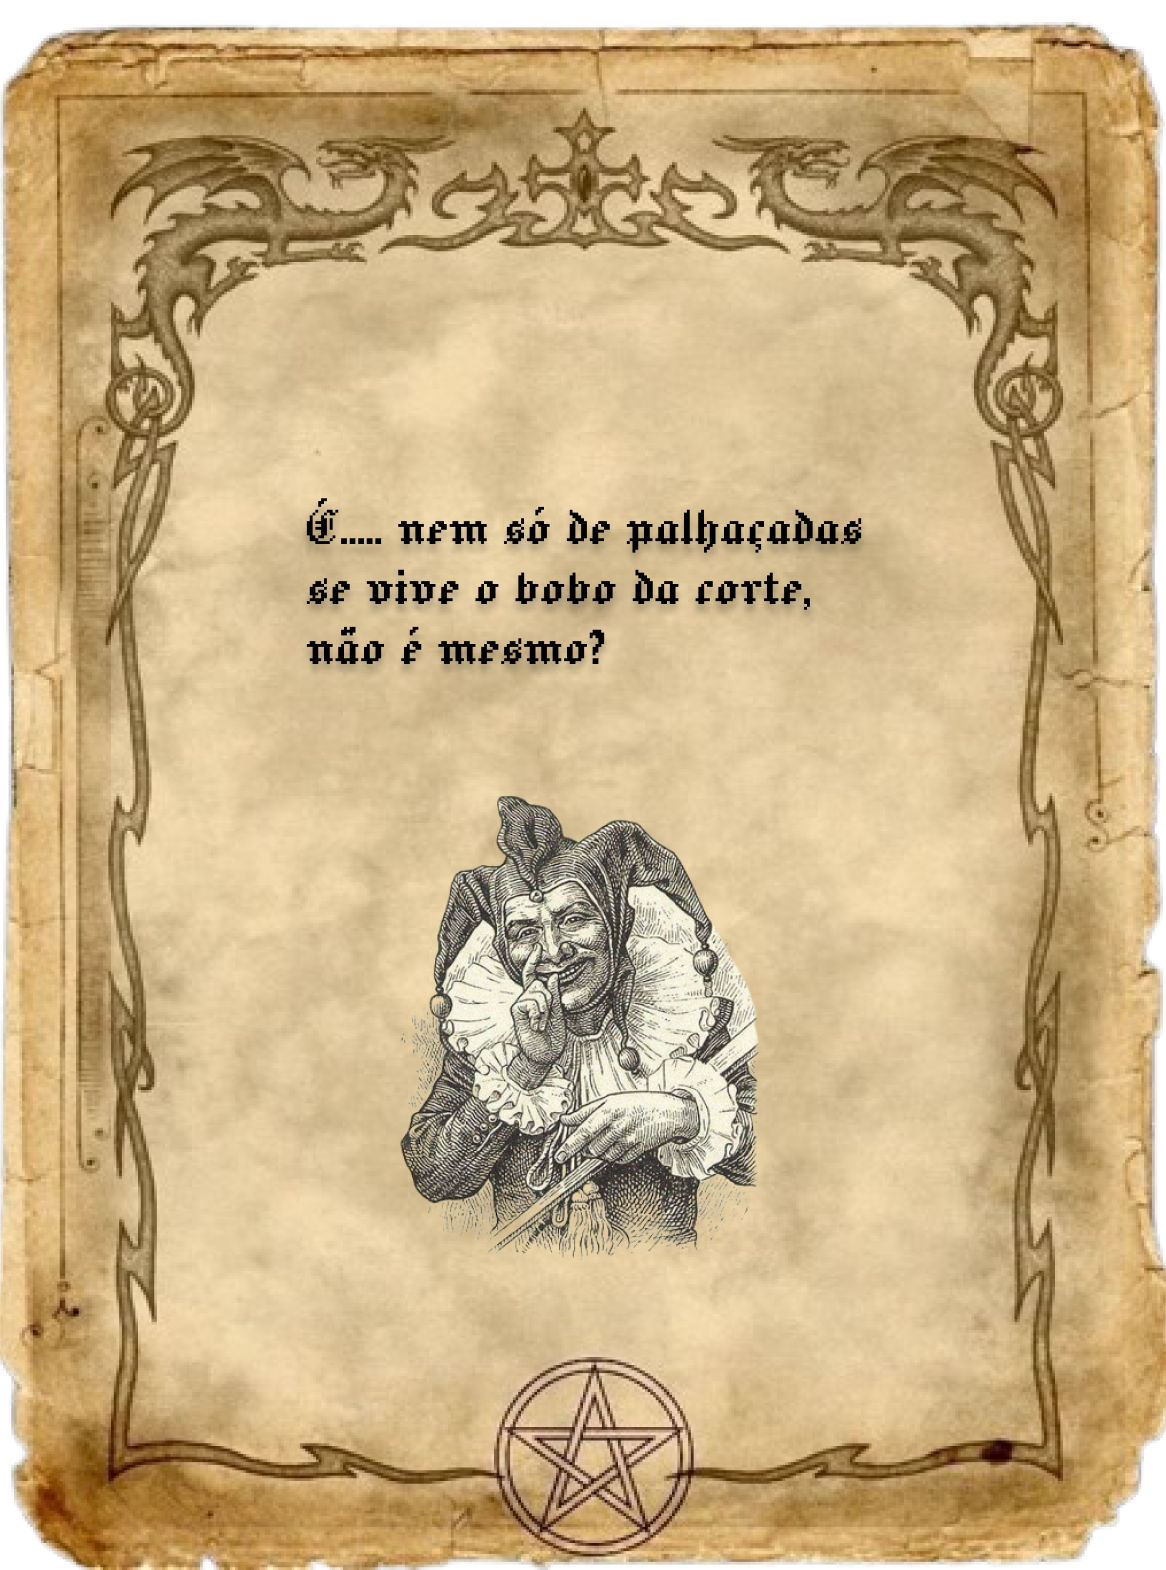
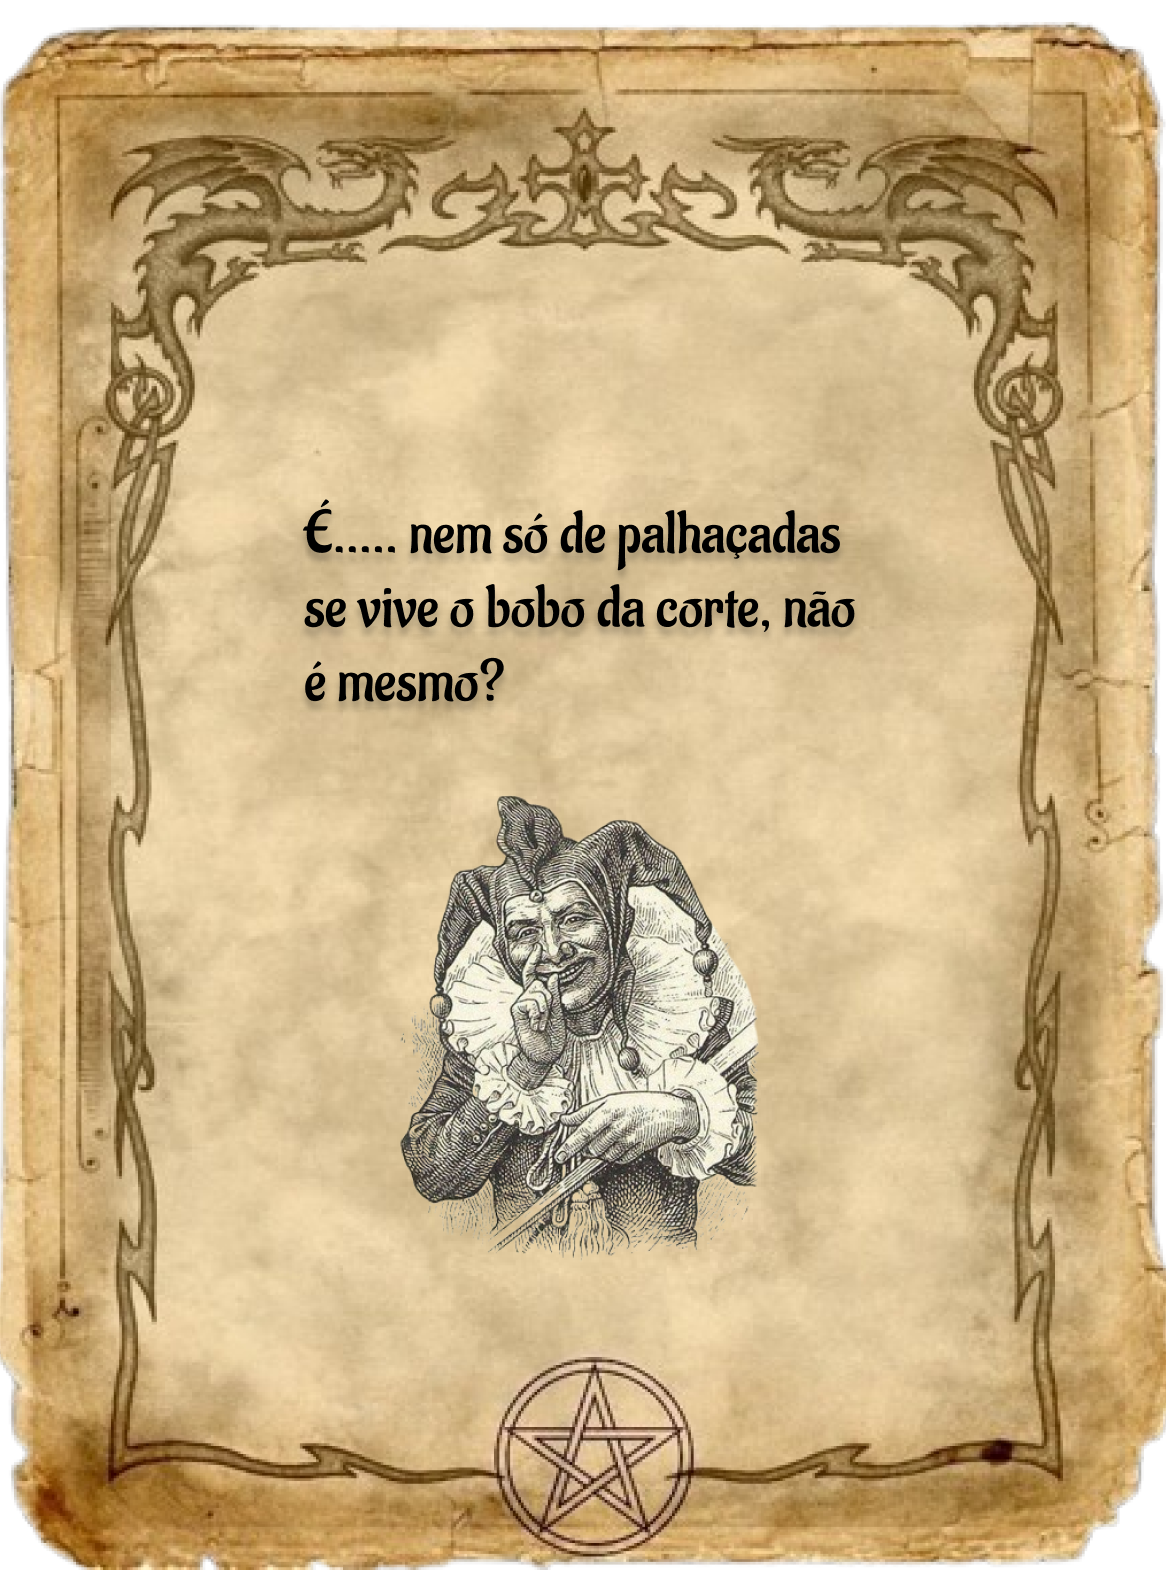
2.0.0

Changed region(s): [[0.247, 0.3121, 0.741, 0.4682]]

diff --git a/src/pages/play/index.tsx b/src/pages/play/index.tsx
@@ -1,5 +1,5 @@
 import { useEffect, useState } from "react";
-import { AlertContainer, Background, CardBack, CardContainer, CardFront, Container, Image, P, Pergaminho, PrincipalContainer, QuestionButton } from "./style";
+import { AlertContainer, Background, CardBack, CardContainer, CardFront, Container, Image, P, Pergaminho, PrincipalContainer, QuestionButton, SkipButton } from "./style";
 
 import backcard from '../../assets/backcart.png'
 import pergaminho from '../../assets/pergaminho.png'
@@ -34,38 +34,42 @@ export function Play() {
     const [currentIndex, setCurrentIndex] = useState(0)
     const [isFinished, setIsFinished] = useState(false)
 
+    function handleSkip() {
+        setCurrentIndex(5)
+    }
+
     useEffect(() => {
         if (currentIndex >= Tutorial.length) {
             setIsFinished(true)
             return
         }
         if (currentIndex == 1) {
-            const interval = setInterval(() =>  {
+            const interval = setInterval(() => {
                 setCurrentIndex((prevIndex) => prevIndex + 1)
             }, 6500)
             return () => clearInterval(interval)
         }
         if (currentIndex == 2) {
-            const interval = setInterval(() =>  {
+            const interval = setInterval(() => {
                 setCurrentIndex((prevIndex) => prevIndex + 1)
-            }, 11000)
+            }, 10000)
             return () => clearInterval(interval)
         }
         if (currentIndex == 3) {
-            const interval = setInterval(() =>  {
+            const interval = setInterval(() => {
                 setCurrentIndex((prevIndex) => prevIndex + 1)
             }, 7000)
             return () => clearInterval(interval)
         }
         if (currentIndex == 4) {
-            const interval = setInterval(() =>  {
+            const interval = setInterval(() => {
                 setCurrentIndex((prevIndex) => prevIndex + 1)
-            }, 10000)
+            }, 9000)
             return () => clearInterval(interval)
         }
-        const interval = setInterval(() =>  {
+        const interval = setInterval(() => {
             setCurrentIndex((prevIndex) => prevIndex + 1)
-        }, 4000)
+        }, 6000)
         return () => clearInterval(interval)
     }, [currentIndex])
 
@@ -116,7 +120,7 @@ export function Play() {
 
     function handleAnswer(selectedAnswer: number) {
         const isCorrect = selectedAnswer === questions[currentQuestion].resposta
-        
+
         if (isCorrect) {
             setResultImage(correctImg)
             setCurrentQuestion((prevQuestion) => prevQuestion + 1);
@@ -124,75 +128,75 @@ export function Play() {
             setResultImage(wrongImg)
             setCurrentQuestion(0)
         }
-        
+
 
         setAnswer(selectedAnswer);
         if (currentQuestion < questions.length - 1) {
             setTimeout(() => {
-            setResultImage(null); // Limpa a imagem ao avançar para a próxima pergunta
-            }, 1500); // Espera 1 segundo antes de mudar para a próxima pergunta
-            
+                setResultImage(null); // Limpa a imagem ao avançar para a próxima pergunta
+            }, 2500); // Espera 1 segundo antes de mudar para a próxima pergunta
+
         } else {
             setTimeout(() => {
                 setResultImage(null); // Limpa a imagem de resultado antes de mostrar o alerta
                 alert('Você completou o quiz!');
-            }, 1500);
+            }, 2500);
         }
 
-        
+
 
     }
 
     if (isFinished) {
         return (
             <Container>
-                <Background src={background}/>
+                <Background src={background} />
                 <QuestionButton onClick={handlePergaminho}></QuestionButton>
                 {onClicked && (
                     <div>
-                        <Pergaminho src={pergaminho}/>
+                        <Pergaminho src={pergaminho} />
                         <P>
                             <p>{questions[currentQuestion].question}</p>
                         </P>
                     </div>
                 )}
                 <section>
-                    <CardContainer 
-                    flipped={flipped}
-                    onMouseEnter={() => setFlipped(false)} 
-                    onMouseLeave={() => setFlipped(true)}
-                    onClick={() => handleAnswer(0)}
+                    <CardContainer
+                        flipped={flipped}
+                        onMouseEnter={() => setFlipped(false)}
+                        onMouseLeave={() => setFlipped(true)}
+                        onClick={() => handleAnswer(0)}
                     >
-                        <CardFront frontcard={carta1}/>
-                        <CardBack backcard={backcard}/>
+                        <CardFront frontcard={carta1} />
+                        <CardBack backcard={backcard} />
                     </CardContainer>
-                    <CardContainer 
-                    flipped={flipped2}
-                    onMouseEnter={() => setFlipped2(false)} 
-                    onMouseLeave={() => setFlipped2(true)}
-                    onClick={() => handleAnswer(1)}
+                    <CardContainer
+                        flipped={flipped2}
+                        onMouseEnter={() => setFlipped2(false)}
+                        onMouseLeave={() => setFlipped2(true)}
+                        onClick={() => handleAnswer(1)}
                     >
-                        <CardFront frontcard={carta2}/>
-                        <CardBack backcard={backcard}/>
+                        <CardFront frontcard={carta2} />
+                        <CardBack backcard={backcard} />
                     </CardContainer>
-                    <CardContainer 
-                    flipped={flipped3}
-                    onMouseEnter={() => setFlipped3(false)} 
-                    onMouseLeave={() => setFlipped3(true)}
-                    onClick={() => handleAnswer(2)}
+                    <CardContainer
+                        flipped={flipped3}
+                        onMouseEnter={() => setFlipped3(false)}
+                        onMouseLeave={() => setFlipped3(true)}
+                        onClick={() => handleAnswer(2)}
                     >
-                        <CardFront frontcard={carta3}/>
-                        <CardBack backcard={backcard}/>
+                        <CardFront frontcard={carta3} />
+                        <CardBack backcard={backcard} />
                     </CardContainer>
                 </section>
 
                 {resultImage && (
                     <AlertContainer>
-                        <Background src={resultImage}/>
+                        <Background src={resultImage} />
                     </AlertContainer>
                 )}
             </Container>
-            
+
         )
     }
 
@@ -200,6 +204,7 @@ export function Play() {
     return (
         <PrincipalContainer>
             <Image src={Tutorial[currentIndex]} />
+            <SkipButton onClick={handleSkip}>Skip</SkipButton>
         </PrincipalContainer>
     )
 }

diff --git a/src/pages/play/style.ts b/src/pages/play/style.ts
@@ -28,7 +28,7 @@ export const Container = styled.div`
 `
 export const Image = styled.img`
     width: 40%;
-    height: 100%;
+    height: 100vh;
 `
 
 export const Background = styled.img`
@@ -106,7 +106,6 @@ export const P = styled.div`
     position: absolute;
     top: 10vh;
     right: 40vw;
-    font-family: "Jacquard 12", system-ui;
     font-size: 24px;
     font-weight: 700;
     text-align: justify;
@@ -121,4 +120,28 @@ export const AlertContainer = styled.div`
     position: absolute;
     left: 25vw;
 
+`
+
+export const SkipButton = styled.button`
+    position: absolute;
+    right: 37vw;
+    bottom: 10vh;
+    width: 8vw;
+    height: 8vh;
+    background-color: #ffefab;
+    border-radius: 8vw;
+    text-align: center;
+    display: flex;
+    align-items: center;
+    justify-content: center;
+    color: black;
+    font-size: 2rem;
+    border: 2px solid black;
+    font-family: "Aladin", system-ui;
+    transition: all 0.3s;
+    cursor: pointer;
+
+    &:hover {
+        background-color: #fee890;
+    }
 `

diff --git a/src/main.tsx b/src/main.tsx
@@ -1,18 +1,21 @@
 import { StrictMode } from 'react'
 import { createRoot } from 'react-dom/client'
 import { App } from './App'
-import { GlobalStyle } from './styles/GlobalStyles'
+import { BackgroundContainer, GlobalStyle } from './styles/GlobalStyles'
 import { ThemeProvider } from 'styled-components'
 import { DefaultTheme } from './styles/theme/DefaultTheme'
 
+import img from './assets/backgroundpreto.jpeg'
 
 
 createRoot(document.getElementById('root')!).render(
   <ThemeProvider theme={DefaultTheme}>
     <StrictMode>
-      <GlobalStyle/>
-      <App />
+      <BackgroundContainer img={img}>
+        <GlobalStyle />
+        <App />
+      </BackgroundContainer>
     </StrictMode>
   </ThemeProvider>
-  
+
 )

diff --git a/src/styles/GlobalStyles.ts b/src/styles/GlobalStyles.ts
@@ -1,4 +1,5 @@
-import { createGlobalStyle } from "styled-components";
+import styled, { createGlobalStyle } from "styled-components";
+
 
 export const GlobalStyle = createGlobalStyle`
     * {
@@ -7,8 +8,15 @@ export const GlobalStyle = createGlobalStyle`
     }
 
     body {
-        background-color: ${props => props.theme.colors.black};
-        color: ${props => props.theme.colors.white}
+        color: ${props => props.theme.colors.white};
+        font-family: "Aladin", system-ui;
     }
     
 ` 
+
+export const BackgroundContainer = styled.div<{ img: string }>`
+    background-image: url(${props => props.img});
+    width: 100%;
+    height: 100vh;
+    background-size: cover;
+`

diff --git a/index.html b/index.html
@@ -6,6 +6,7 @@
     <link rel="preconnect" href="https://fonts.googleapis.com">
     <link rel="preconnect" href="https://fonts.gstatic.com" crossorigin>
     <link href="https://fonts.googleapis.com/css2?family=Jacquard+12&family=Pixelify+Sans:wght@400..700&family=Silkscreen:wght@400;700&display=swap" rel="stylesheet">
+    <link href="https://fonts.googleapis.com/css2?family=Aladin&family=Jacquard+12&family=Pixelify+Sans:wght@400..700&family=Silkscreen:wght@400;700&display=swap" rel="stylesheet">
     <meta name="viewport" content="width=device-width, initial-scale=1.0" />
     <title>Court of Logic</title>
   </head>

diff --git a/src/App.tsx b/src/App.tsx
@@ -6,13 +6,16 @@ import { Settings } from "./pages/settings";
 
 export function App() {
   return (
+
     <Router>
       <Routes>
-        <Route path="/" element={<Home />}/>
-        <Route path="/play" element={<Play />}/>
-        <Route path="/settings" element={<Settings />}/>
+        <Route path="/" element={<Home />} />
+        <Route path="/play" element={<Play />} />
+        <Route path="/settings" element={<Settings />} />
       </Routes>
     </Router>
+
+
   )
 }
 

diff --git a/src/pages/settings/style.ts b/src/pages/settings/style.ts
@@ -15,9 +15,10 @@ export const BackButton = styled(NavLink)`
     justify-content: center;
     text-decoration: none;
     color: black;
-    font-family: "Jacquard 12", system-ui;
     font-size: 2rem;
     border: 2px solid black;
+    font-family: "Aladin", system-ui;
+    cursor: pointer;
     transition: all 0.3s;
 
     &:hover {
